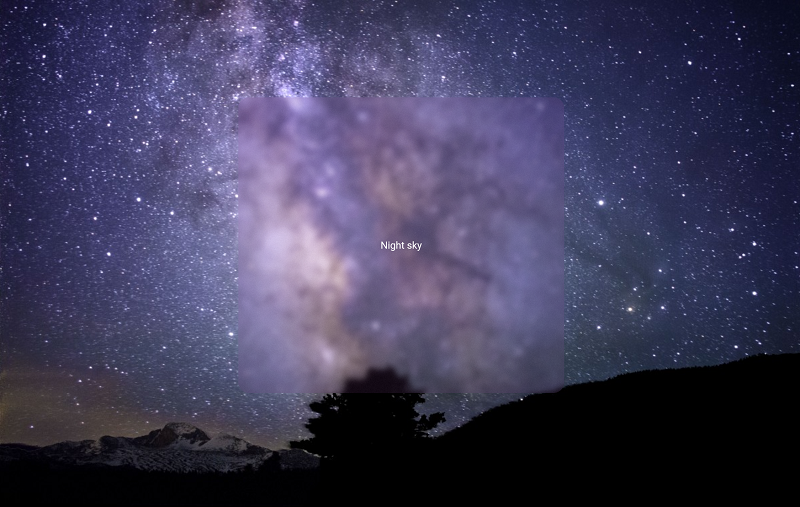
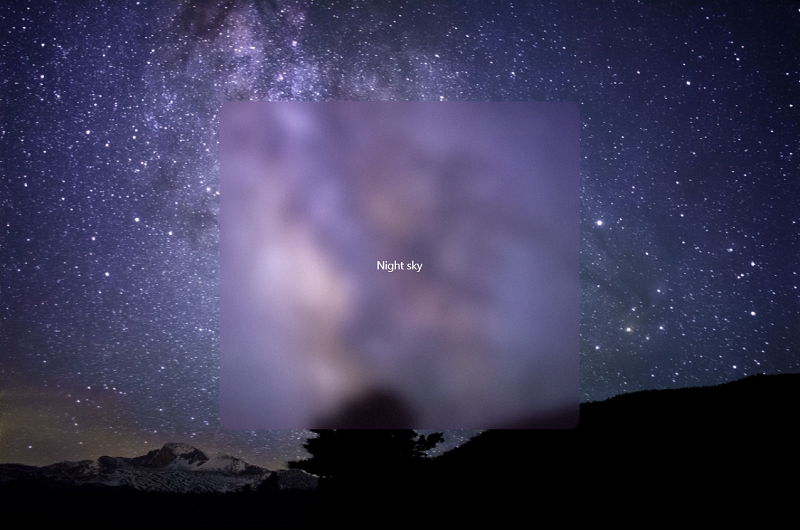
Changed default values for blurX and blurY

diff --git a/lib/src/GlassWidget.dart b/lib/src/GlassWidget.dart
@@ -5,10 +5,10 @@ extension GlassWidget on Widget {
   /// .asGlass(): Converts the calling widget into a glass widget.
   ///
   /// Parameters:
-  /// * [blurX]: Amount of blur in the direction of the X axis.
-  /// * [blurY]: Amount of blur in the direction of the Y axis.
-  /// * [tintColor]: Tint color for the glass (defaults to Colors.white)
-  /// * [frosted]: Whether this glass should be frosted or not (defaults to true)
+  /// * [blurX]: Amount of blur in the direction of the X axis, defaults to 10.0.
+  /// * [blurY]: Amount of blur in the direction of the Y axis, defaults to 10.0.
+  /// * [tintColor]: Tint color for the glass (defaults to Colors.white).
+  /// * [frosted]: Whether this glass should be frosted or not (defaults to true).
   /// * [clipBorderRadius]: The border radius of the rounded corners.
   ///   Values are clamped so that horizontal and vertical radii sums do not exceed width/height.
   ///   This value is ignored if [clipper] is non-null.
@@ -16,8 +16,8 @@ extension GlassWidget on Widget {
   /// * [tileMode]: Defines what happens at the edge of a gradient or the sampling of a source image in an [ImageFilter].
   /// * [clipper]: If non-null, determines which clip to use.
   ClipRRect asGlass({
-    double blurX = 4.0,
-    double blurY = 4.0,
+    double blurX = 10.0,
+    double blurY = 10.0,
     Color tintColor = Colors.white,
     bool frosted = true,
     BorderRadius? clipBorderRadius = BorderRadius.zero,

diff --git a/example/lib/main.dart b/example/lib/main.dart
@@ -30,6 +30,7 @@ class MyApp extends StatelessWidget {
                     ),
                   ),
                 ).asGlass(
+                  tintColor: Colors.transparent,
                   clipBorderRadius: BorderRadius.circular(15.0),
                 ),
               ],

diff --git a/README.md b/README.md
@@ -5,7 +5,7 @@
 Easily convert any Widget into a glass / frosted glass version of itself, following the glassmorphism / glassmorphic  design trend.
 
 ![Sample screenshot](https://raw.githubusercontent.com/Zachariah-Abraham/glass/main/example/screenshots/2.PNG)
-![Sample screenshot 2](https://raw.githubusercontent.com/Zachariah-Abraham/glass/main/example/screenshots/3.png)
+![Sample screenshot 2](https://raw.githubusercontent.com/Zachariah-Abraham/glass/main/example/screenshots/3.PNG)
 
 ## Installation
 

diff --git a/CHANGELOG.md b/CHANGELOG.md
@@ -1,3 +1,8 @@
+## [0.1.0] - 2021-05-20
+
+* Changed default values for blurX and blurY for better blurring
+
+
 ## [0.0.9] - 2021-05-20
 
 * Minor bugfixes
